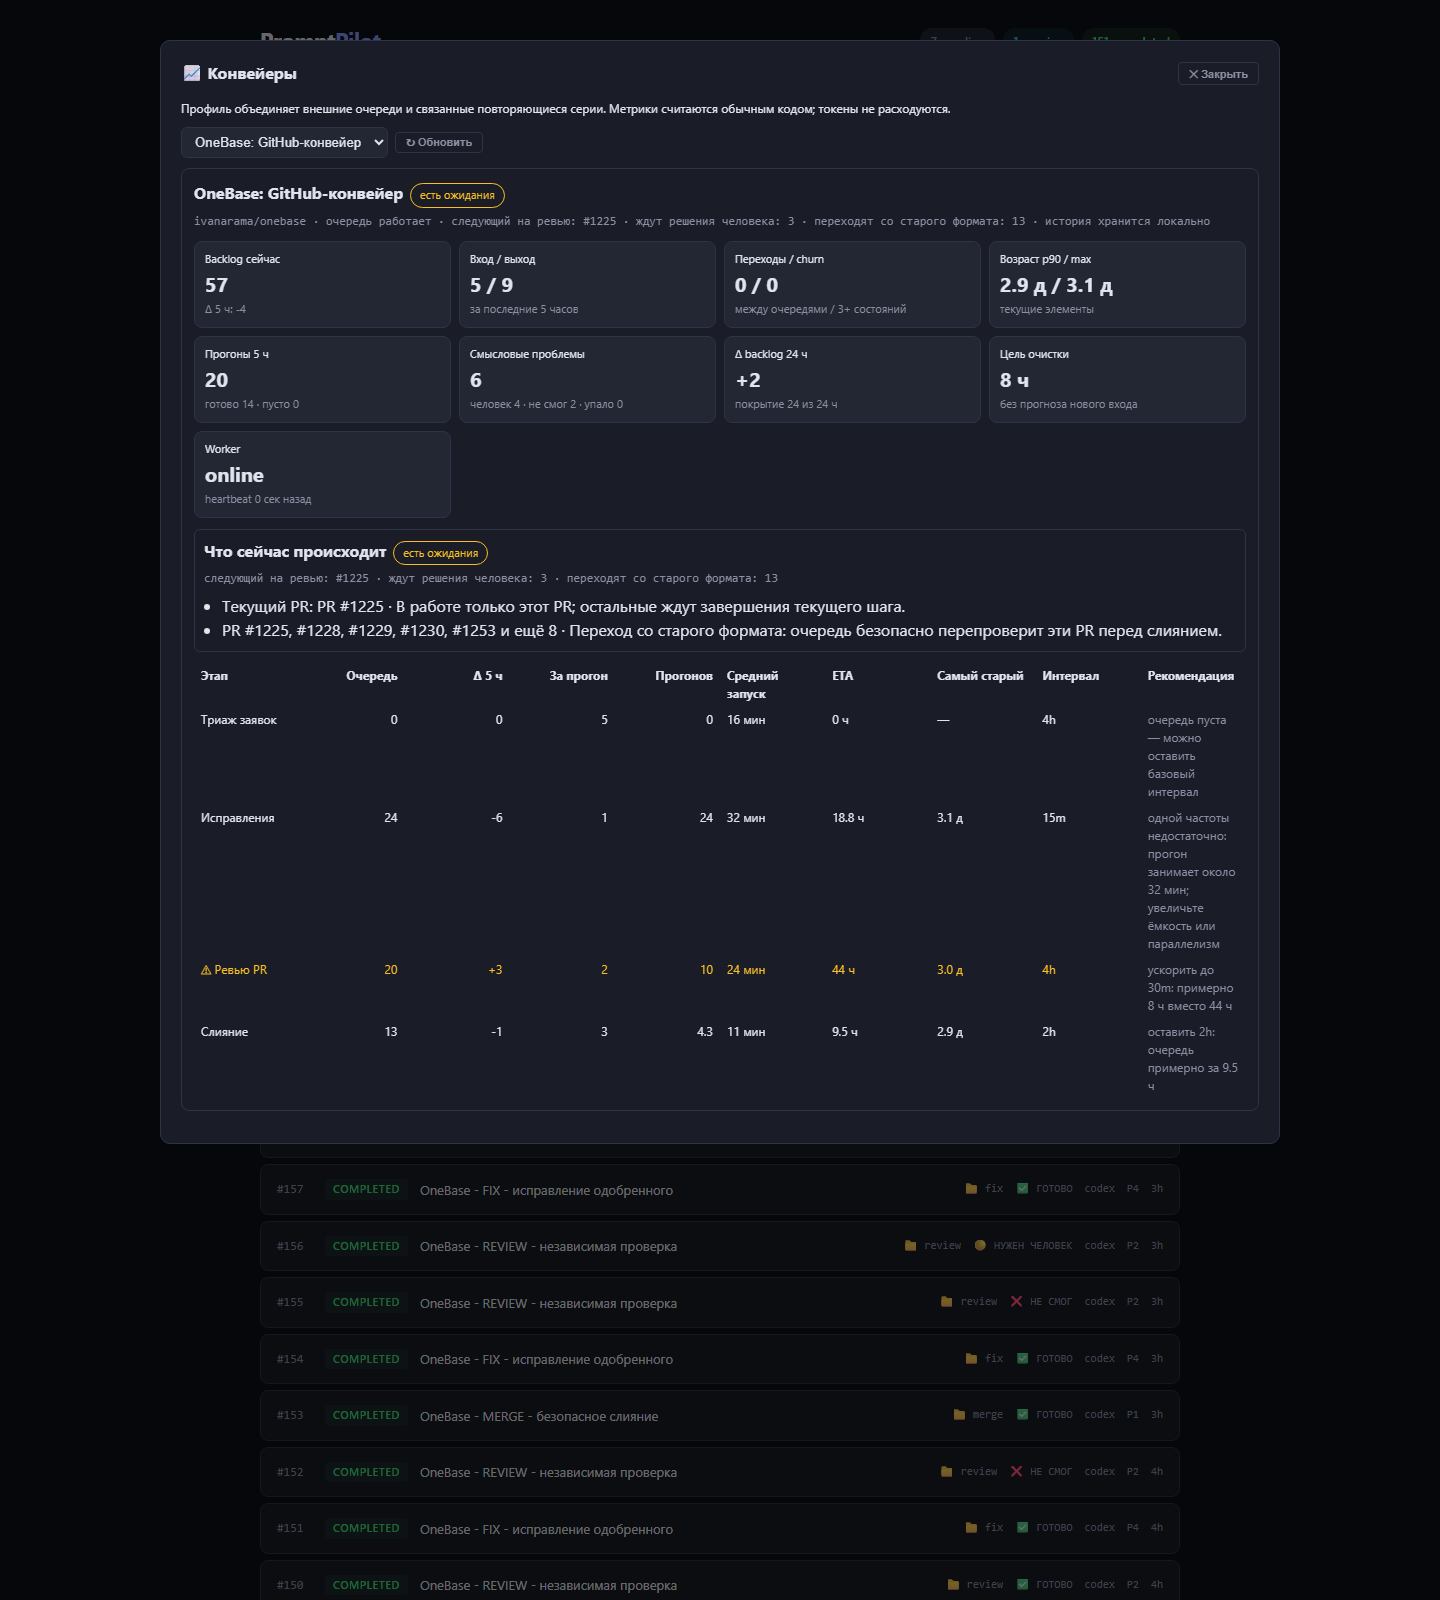
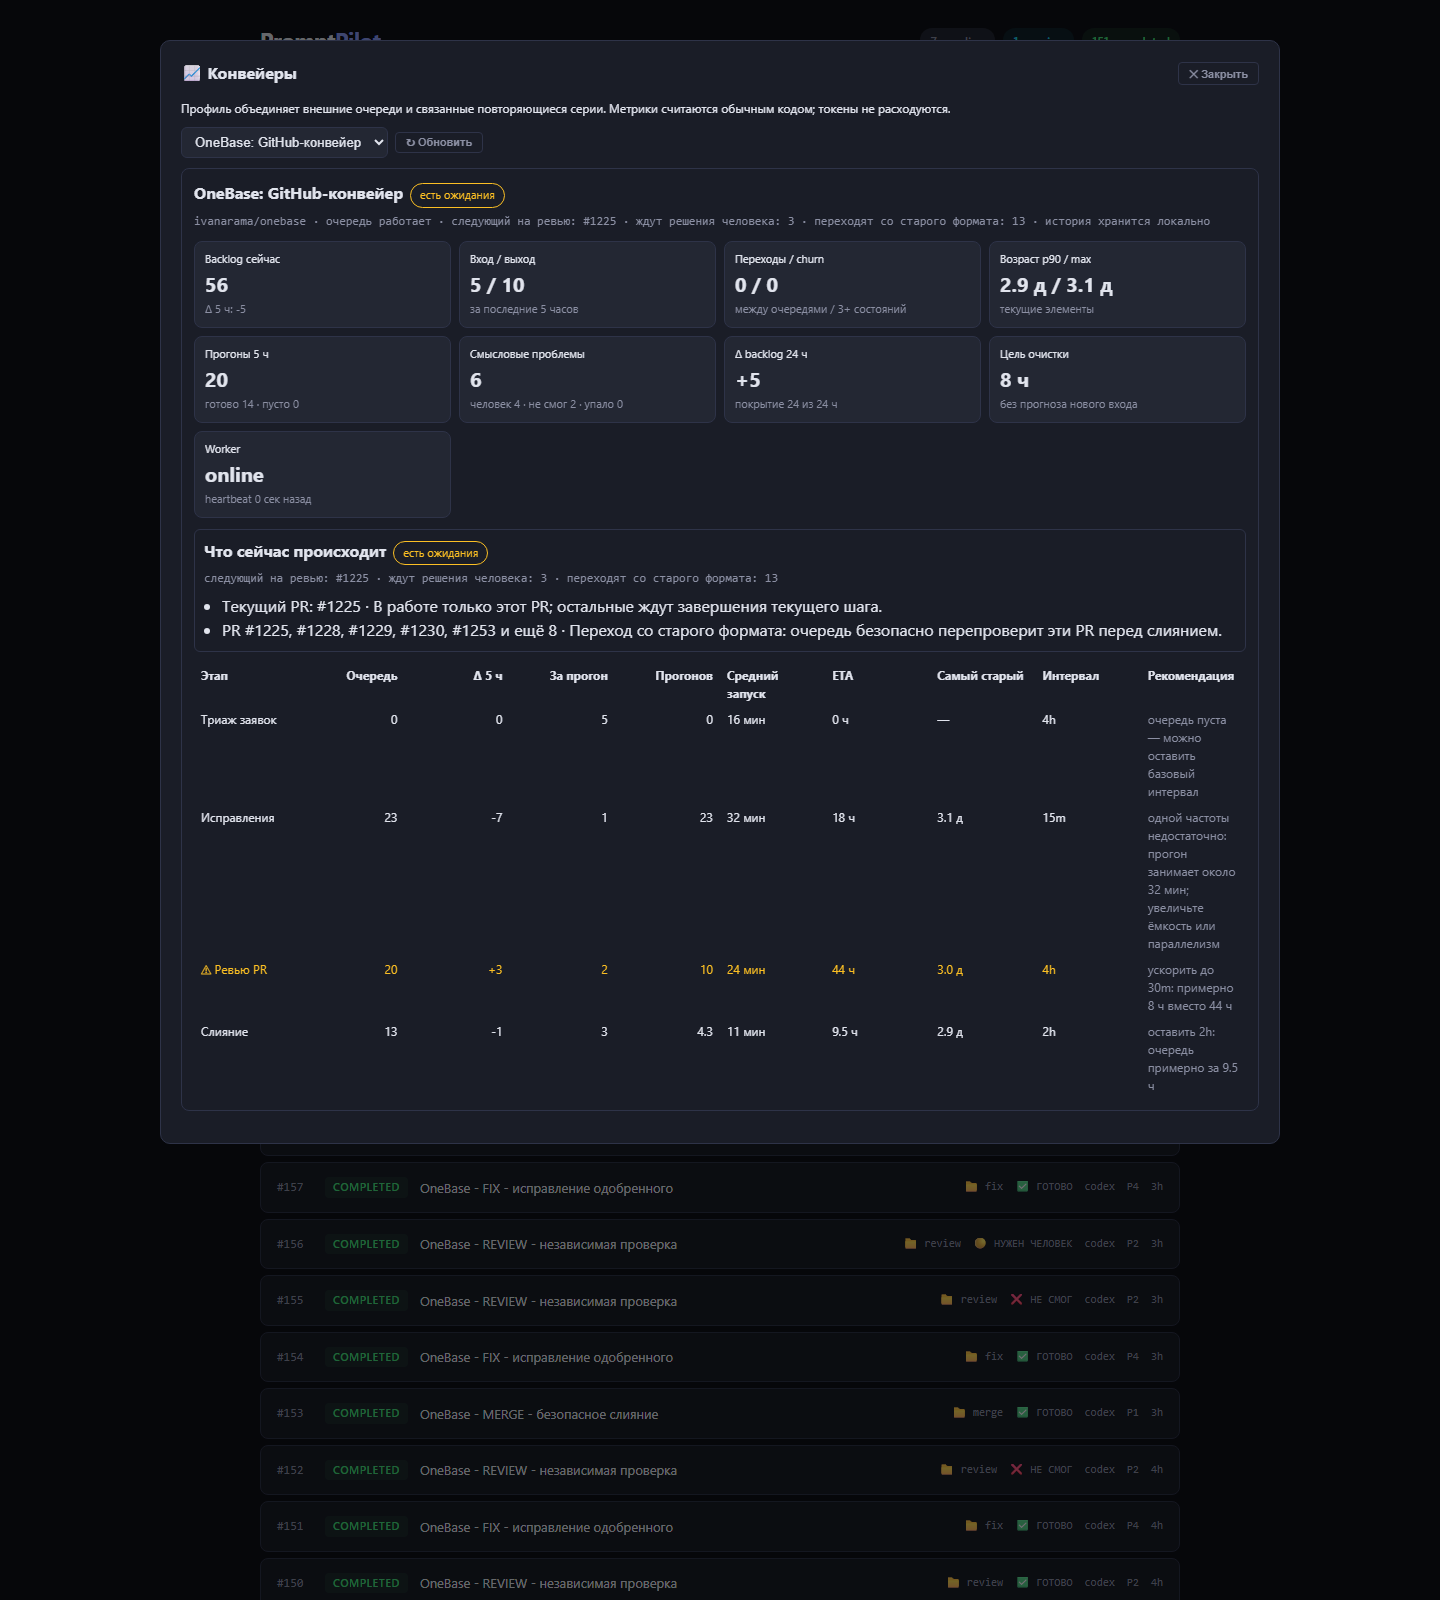
fix(ui): avoid duplicate PR label in diagnostics

diff --git a/promptpilot/static/index.html b/promptpilot/static/index.html
@@ -2536,9 +2536,10 @@ function diagnosticFindingMessage(finding) {
 function renderDiagnosticFinding(finding) {
   const shown = finding.prs.slice(0, 5).map(pr => `#${pr}`).join(', ');
   const rest = finding.prs.length > 5 ? ` и ещё ${finding.prs.length - 5}` : '';
-  const prs = finding.prs.length ? `PR ${shown}${rest} · ` : '';
-  const owner = finding.code === 'single_flight_barrier' ? 'Текущий PR: ' : '';
-  return `<li class="${finding.severity === 'red' ? 'error-text' : ''}">${owner}${prs}${esc(diagnosticFindingMessage(finding))}</li>`;
+  const prefix = finding.prs.length
+    ? finding.code === 'single_flight_barrier' ? `Текущий PR: ${shown}${rest} · ` : `PR ${shown}${rest} · `
+    : '';
+  return `<li class="${finding.severity === 'red' ? 'error-text' : ''}">${prefix}${esc(diagnosticFindingMessage(finding))}</li>`;
 }
 
 function diagnosticOverview(data) {

diff --git a/tests/test_workflow_api_cli.py b/tests/test_workflow_api_cli.py
@@ -110,6 +110,7 @@ def test_schedule_ui_exposes_durable_series_controls():
     assert "pipelineHealthReason(data)" in html
     assert "Переход со старого формата" in html
     assert "Что сейчас происходит" in html
+    assert "Текущий PR: ${shown}${rest}" in html
     assert "Текущая проверка" not in html
     assert "diagnosticGroups.slice(0,8)" in html
 
